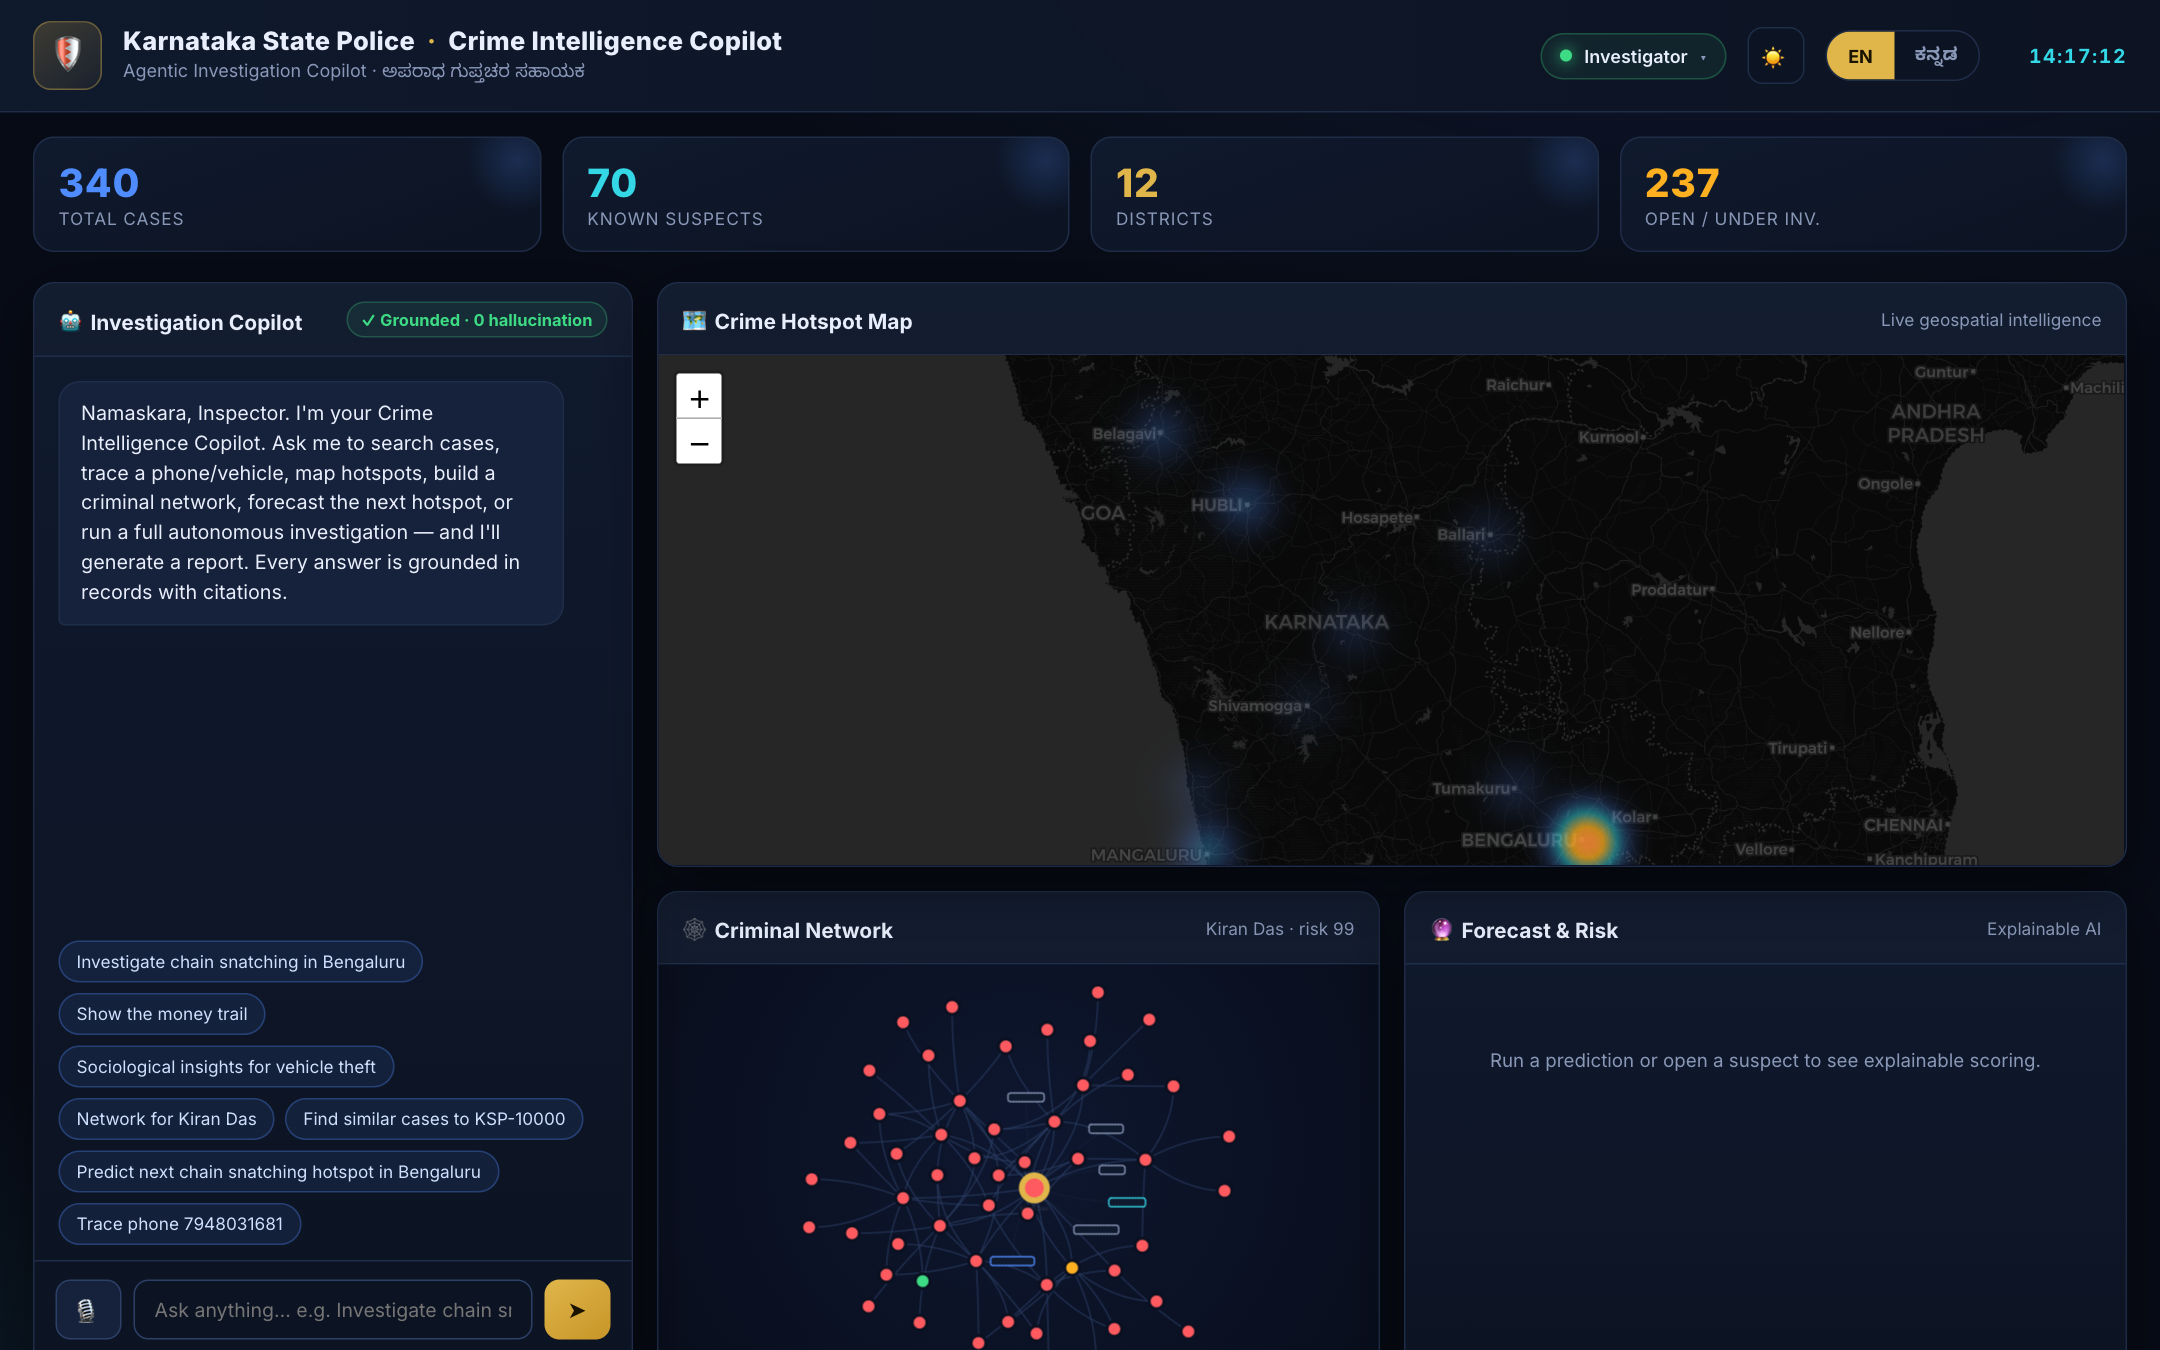
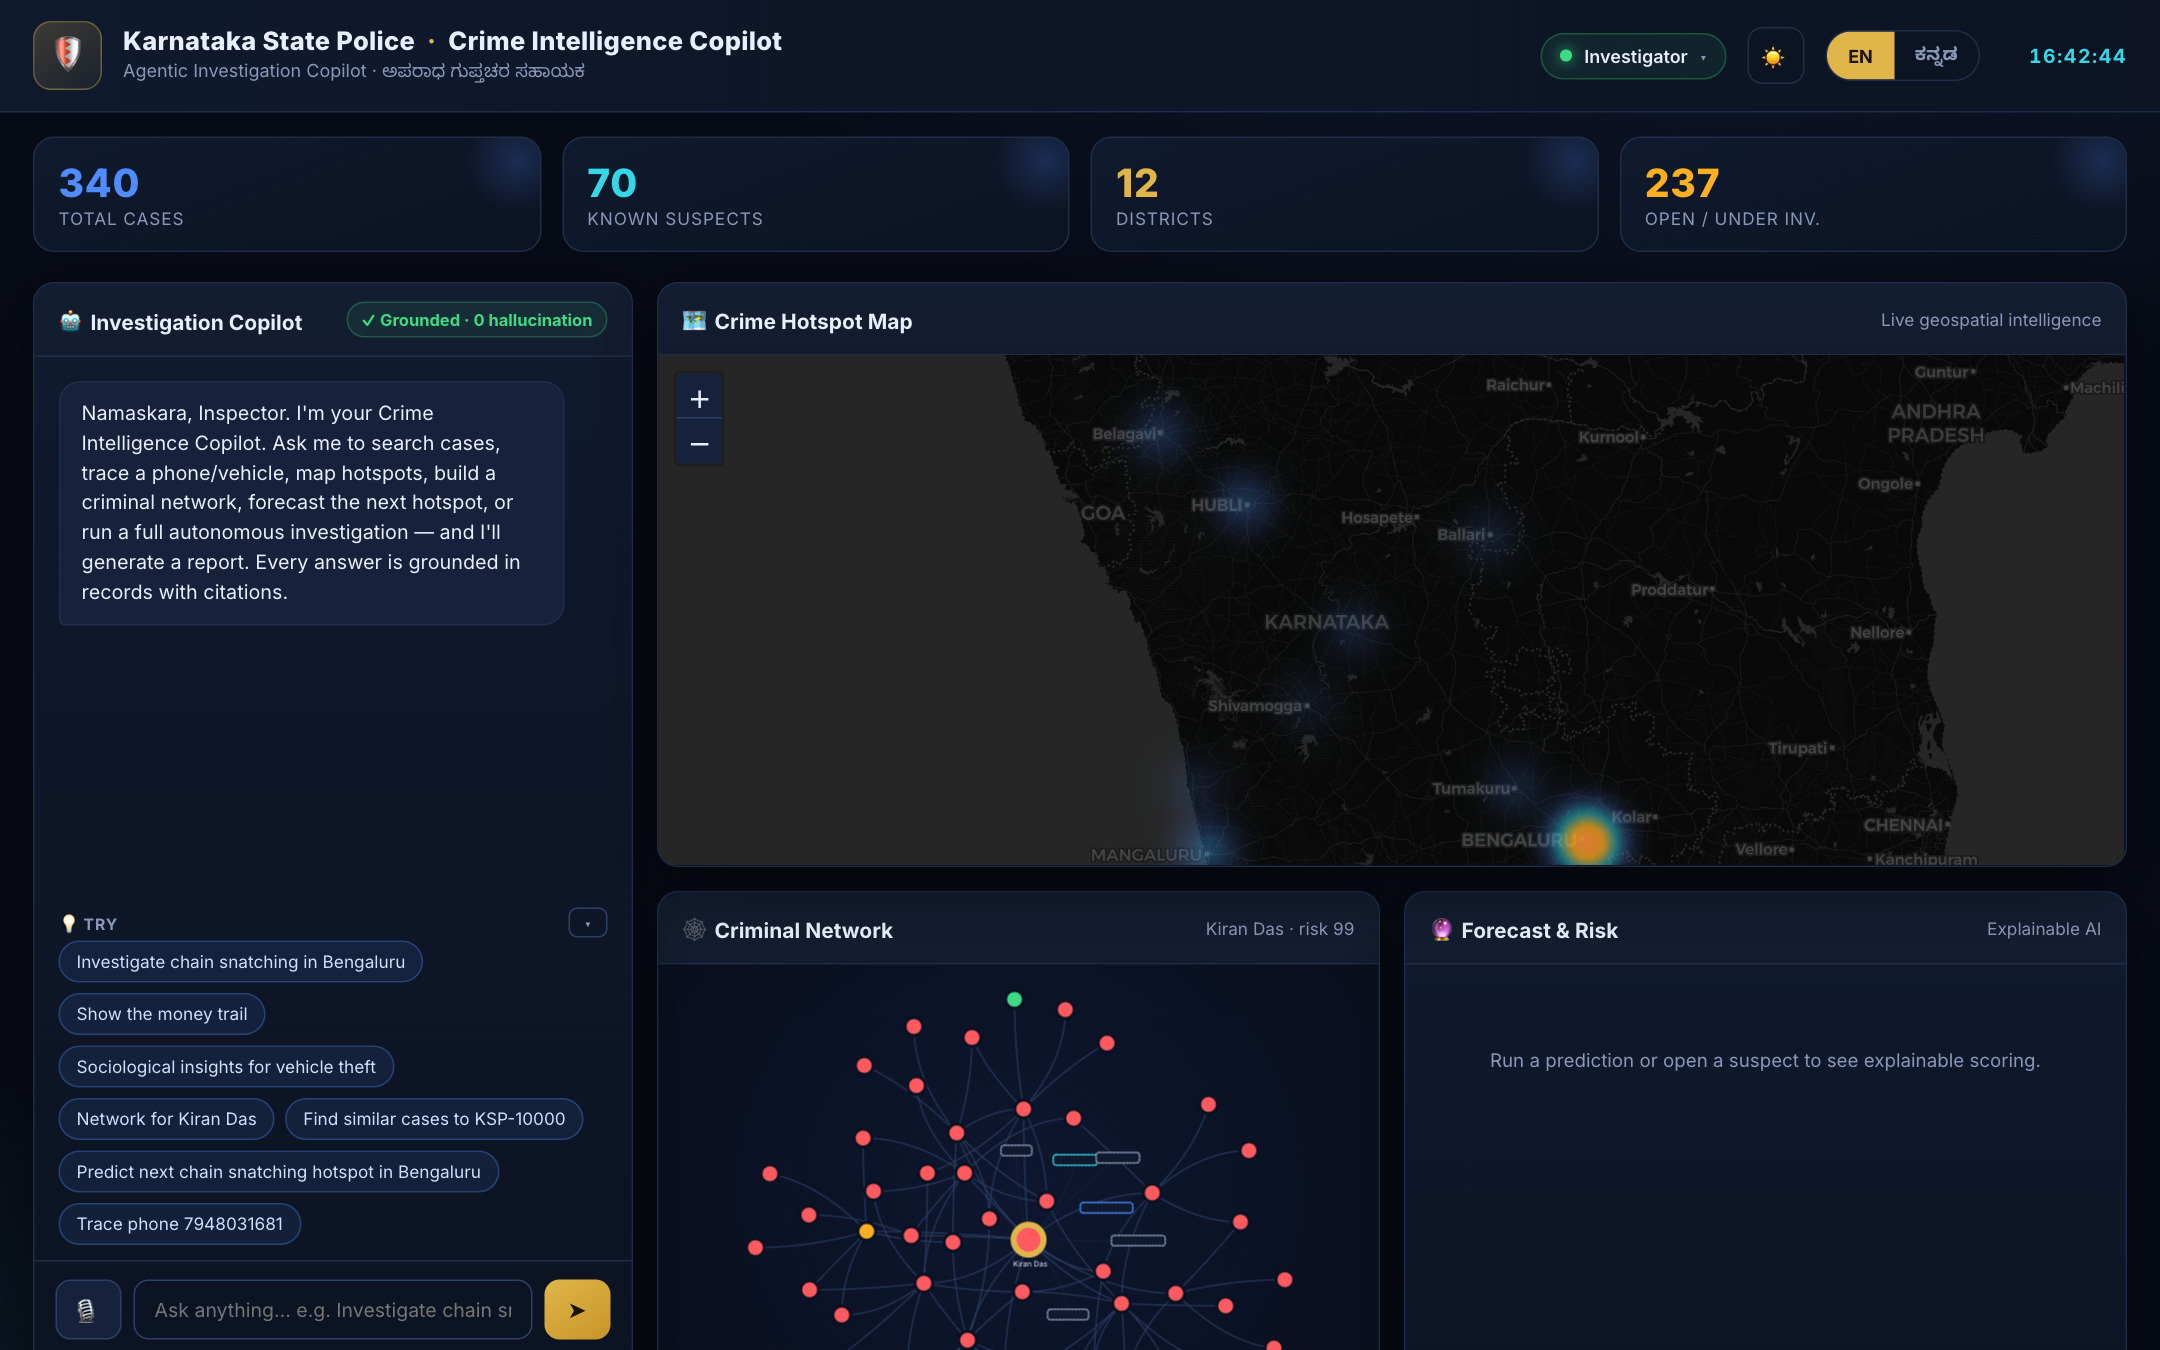
v-1.0.2

diff --git a/app.js b/app.js
@@ -18,6 +18,9 @@
   const themeMuted = () => getComputedStyle(document.documentElement).getPropertyValue("--muted").trim() || "#8a98b8";
   const trackCol = () => (THEME === "light" ? "#e3eaf4" : "#16223b");
   const gridCol = () => (THEME === "light" ? "#e0e7f1" : "#1f2d49");
+  const heatGradient = () => (THEME === "light"
+    ? { 0.2: "#5b3df5", 0.5: "#2f6fe0", 0.75: "#ff8a00", 1: "#e23a40" }
+    : { 0.2: "#4f8cff", 0.5: "#34d7e6", 0.75: "#ffb020", 1: "#ff5a5f" });
 
   // Pillar #10 — role-based access & governance.
   const ROLES = {
@@ -37,7 +40,7 @@
       grounded: "Grounded · 0 hallucination", map: "🗺 Crime Hotspot Map",
       mapSub: "Live geospatial intelligence", network: "🕸 Criminal Network",
       netSub: "Click a node to expand", forecast: "🔮 Forecast & Risk", xai: "Explainable AI",
-      socio: "🏙 Sociological Insights", socioSub: "Criminology · socio-economic correlation",
+      socio: "🏙 Sociological Insights", socioSub: "Criminology · socio-economic correlation", trylabel: "💡 Try",
       timeline: "📈 Investigation Timeline", evidence: "📁 Evidence & Report",
       genreport: "Generate PDF Report", audit: "Audit log",
       synthetic: "Synthetic demo data — no real persons or cases",
@@ -56,7 +59,7 @@
       grounded: "ದೃಢೀಕೃತ · ಶೂನ್ಯ ತಪ್ಪು", map: "🗺 ಅಪರಾಧ ತಾಣ ನಕ್ಷೆ",
       mapSub: "ನೇರ ಭೌಗೋಳಿಕ ಗುಪ್ತಚರ", network: "🕸 ಅಪರಾಧಿ ಜಾಲ",
       netSub: "ವಿಸ್ತರಿಸಲು ನೋಡ್ ಕ್ಲಿಕ್ ಮಾಡಿ", forecast: "🔮 ಊಹೆ ಮತ್ತು ಅಪಾಯ", xai: "ವಿವರಿಸಬಲ್ಲ AI",
-      socio: "🏙 ಸಾಮಾಜಿಕ ಒಳನೋಟ", socioSub: "ಅಪರಾಧಶಾಸ್ತ್ರ · ಸಾಮಾಜಿಕ-ಆರ್ಥಿಕ ಸಂಬಂಧ",
+      socio: "🏙 ಸಾಮಾಜಿಕ ಒಳನೋಟ", socioSub: "ಅಪರಾಧಶಾಸ್ತ್ರ · ಸಾಮಾಜಿಕ-ಆರ್ಥಿಕ ಸಂಬಂಧ", trylabel: "💡 ಪ್ರಯತ್ನಿಸಿ",
       timeline: "📈 ತನಿಖಾ ಕಾಲರೇಖೆ", evidence: "📁 ಸಾಕ್ಷ್ಯ ಮತ್ತು ವರದಿ",
       genreport: "PDF ವರದಿ ರಚಿಸಿ", audit: "ಲೆಕ್ಕಪರಿಶೋಧನೆ",
       synthetic: "ಕೃತಕ ಡೆಮೋ ಮಾಹಿತಿ — ನಿಜವಾದ ವ್ಯಕ್ತಿಗಳಲ್ಲ",
@@ -235,9 +238,13 @@
     injectPredCss();
   }
   function swapMapTiles() {
-    // Map stays DARK in both themes — best contrast for heat + markers.
-    if (!mapObj || typeof L === "undefined" || tileLayer) return;
-    tileLayer = L.tileLayer("https://{s}.basemaps.cartocdn.com/dark_all/{z}/{x}/{y}{r}.png", { maxZoom: 19, subdomains: "abcd" }).addTo(mapObj);
+    // Theme-aware basemap: light tiles in light mode, dark tiles in dark mode.
+    if (!mapObj || typeof L === "undefined") return;
+    if (tileLayer) mapObj.removeLayer(tileLayer);
+    const url = THEME === "light"
+      ? "https://{s}.basemaps.cartocdn.com/light_all/{z}/{x}/{y}{r}.png"
+      : "https://{s}.basemaps.cartocdn.com/dark_all/{z}/{x}/{y}{r}.png";
+    tileLayer = L.tileLayer(url, { maxZoom: 19, subdomains: "abcd" }).addTo(mapObj);
     if (tileLayer.bringToBack) tileLayer.bringToBack();
   }
   function applyTheme() {
@@ -251,8 +258,7 @@
   function showInitialHeat() {
     if (!mapObj || !L.heatLayer) return;
     const pts = DB.cases.map((c) => [c.lat, c.lng, 0.45]);
-    heatLayer = L.heatLayer(pts, { radius: 18, blur: 22, maxZoom: 12,
-      gradient: { 0.2: "#4f8cff", 0.5: "#34d7e6", 0.75: "#ffb020", 1: "#ff5a5f" } }).addTo(mapObj);
+    heatLayer = L.heatLayer(pts, { radius: 18, blur: 22, maxZoom: 12, gradient: heatGradient() }).addTo(mapObj);
   }
   function applyMap(r) {
     if (!mapObj) return;
@@ -262,15 +268,14 @@
     const cases = r.cases || [];
     if (cases.length && L.heatLayer) {
       heatLayer = L.heatLayer(cases.map((c) => [c.lat, c.lng, 0.35 + c.severity / 14]),
-        { radius: 26, blur: 26, maxZoom: 13,
-          gradient: { 0.2: "#4f8cff", 0.5: "#34d7e6", 0.75: "#ffb020", 1: "#ff5a5f" } }).addTo(mapObj);
+        { radius: 26, blur: 26, maxZoom: 13, gradient: heatGradient() }).addTo(mapObj);
     } else { showInitialHeat(); }
 
-    (r.hotspots || []).forEach((h) => {
-      const radius = 9 + Math.min(h.count, 20);
-      L.circleMarker([h.lat, h.lng], {
-        radius, color: "#e0b64a", weight: 2, fillColor: "#ffb020", fillOpacity: 0.35
-      }).bindPopup(`<b>${h.area}</b>, ${h.district}<br>${h.count} case(s) · ${h.share}% of results`).addTo(markerGroup);
+    (r.hotspots || []).forEach((h, i) => {
+      const icon = L.divIcon({ className: "",
+        html: `<div class="hot-marker ${i === 0 ? "hot-top" : ""}"><span class="hot-dot"></span><span class="hot-pill">${h.area}<b>${h.count}</b></span></div>`,
+        iconSize: [16, 16], iconAnchor: [8, 8] });
+      L.marker([h.lat, h.lng], { icon, riseOnHover: true }).bindPopup(hotspotPopup(h)).addTo(markerGroup);
     });
 
     if (r.prediction) {
@@ -289,6 +294,18 @@
     const s = el("style"); s.id = "predcss";
     s.textContent = ".pred-pulse{font-size:22px;filter:drop-shadow(0 0 6px #ff5a5f);animation:predpulse 1.2s infinite}@keyframes predpulse{0%,100%{transform:scale(1)}50%{transform:scale(1.35)}}";
     document.head.appendChild(s);
+  }
+  function hotspotPopup(h) {
+    const cs = (h.ids || []).map((id) => DB.caseById(id)).filter(Boolean);
+    const tc = {}; cs.forEach((c) => (tc[c.type] = (tc[c.type] || 0) + 1));
+    const topType = Object.keys(tc).sort((a, b) => tc[b] - tc[a])[0] || "—";
+    const recent = cs.slice().sort((a, b) => b.ts - a.ts)[0];
+    return `<div class="pop"><div class="pop-h">📍 ${h.area}, ${h.district}</div>` +
+      `<div class="pop-row"><span>Cases</span><b>${h.count}</b></div>` +
+      `<div class="pop-row"><span>Share of results</span><b>${h.share}%</b></div>` +
+      `<div class="pop-row"><span>Top crime</span><b>${topType}</b></div>` +
+      (recent ? `<div class="pop-row"><span>Latest</span><b>${recent.type} · ${recent.date}</b></div><div class="pop-id">${recent.id}</div>` : "") +
+      `</div>`;
   }
 
   /* ---- Network ---- */
@@ -333,7 +350,7 @@
     });
     const data = { nodes: new vis.DataSet(nodes), edges: new vis.DataSet(edges) };
     const options = {
-      physics: { stabilization: { iterations: 120 }, barnesHut: { gravitationalConstant: -9000, springLength: 110, springConstant: 0.04 } },
+      physics: { stabilization: { iterations: 150, fit: true }, barnesHut: { gravitationalConstant: -9000, springLength: 110, springConstant: 0.04 } },
       interaction: { hover: true, tooltipDelay: 120 }, layout: { improvedLayout: true }
     };
     if (netObj) netObj.destroy();
@@ -604,6 +621,10 @@
     $("#sendBtn").onclick = () => ask();
     $("#queryInput").addEventListener("keydown", (e) => { if (e.key === "Enter") ask(); });
     $("#micBtn").onclick = toggleListen;
+    $("#suggToggle").onclick = () => {
+      const collapsed = $("#suggestions").classList.toggle("collapsed");
+      $("#suggToggle").textContent = collapsed ? "▸" : "▾";
+    };
     $("#themeToggle").onclick = () => { THEME = THEME === "light" ? "dark" : "light"; applyTheme(); audit("theme.switch", THEME); };
     $("#roleBadge").onclick = () => {
       const keys = Object.keys(ROLES);

diff --git a/styles.css b/styles.css
@@ -31,7 +31,7 @@
   --bg: #e9eff7; --bg-2: #ffffff; --panel: #ffffff; --panel-hi: #eef3fa;
   --border: #dbe3ef; --border-hi: #c4d0e3; --text: #15233b; --muted: #5a6a85;
   --gold: #b07d16; --cyan: #0d92a6; --blue: #2f6fe0; --green: #1f9d57; --amber: #c9810a; --red: #e23a40;
-  --map-bg: #0a1020; --net-bg1: #f4f8fd; --net-bg2: #e8eff8; --head-tint: rgba(20,40,80,.025);
+  --map-bg: #dfeaf7; --net-bg1: #f4f8fd; --net-bg2: #e8eff8; --head-tint: rgba(20,40,80,.025);
   --chip-text: #1f54b8;
   --shadow: 0 10px 30px rgba(20,40,80,.12);
 }
@@ -70,7 +70,7 @@ body {
   background: linear-gradient(90deg, rgba(16,26,46,.95), rgba(12,19,34,.95));
   border-bottom: 1px solid var(--border);
   backdrop-filter: blur(8px);
-  position: sticky; top: 0; z-index: 50;
+  position: sticky; top: 0; z-index: 1200;   /* above Leaflet panes/controls (1000) */
 }
 .brand { display: flex; align-items: center; gap: 14px; }
 .shield {
@@ -139,7 +139,7 @@ body {
 /* ------------------------------ Copilot --------------------------------- */
 .copilot { display: flex; flex-direction: column; height: calc(100vh - 168px); position: sticky; top: 150px; }
 .grounded-badge { font-size: 11px; font-weight: 700; color: var(--green); background: rgba(63,221,132,.08); border: 1px solid rgba(63,221,132,.25); padding: 4px 9px; border-radius: 999px; }
-.chat { flex: 1; overflow-y: auto; padding: 16px; display: flex; flex-direction: column; gap: 12px; }
+.chat { flex: 1; min-height: 0; overflow-y: auto; overscroll-behavior: contain; padding: 16px; display: flex; flex-direction: column; gap: 12px; }
 .msg { max-width: 92%; padding: 11px 14px; border-radius: 14px; line-height: 1.5; font-size: 13.2px; animation: rise .25s ease; }
 @keyframes rise { from { opacity: 0; transform: translateY(8px); } }
 .msg.user { align-self: flex-end; background: linear-gradient(145deg, var(--blue), #3a6fd8); color: #fff; border-bottom-right-radius: 4px; }
@@ -183,8 +183,36 @@ body {
 .leaflet-container { background: var(--map-bg); font-family: inherit; }
 .leaflet-popup-content-wrapper { background: var(--panel-hi); color: var(--text); border-radius: 10px; border: 1px solid var(--border-hi); }
 .leaflet-popup-tip { background: var(--panel-hi); }
+.leaflet-popup-content { color: var(--text); margin: 12px 14px; }
 .leaflet-popup-content b { color: var(--gold); }
-#network { height: 300px; width: 100%; background: radial-gradient(circle at 50% 40%, var(--net-bg1), var(--net-bg2)); }
+.leaflet-control-zoom a { background: var(--panel-hi) !important; color: var(--text) !important; border-color: var(--border-hi) !important; }
+
+/* Advanced hotspot markers (area label + glowing dot) */
+.hot-marker { display: flex; align-items: center; gap: 6px; white-space: nowrap; }
+.hot-dot { width: 13px; height: 13px; border-radius: 50%; flex: 0 0 auto;
+  background: radial-gradient(circle at 30% 30%, #ffe08a, #ff8a00);
+  box-shadow: 0 0 12px 3px rgba(255,138,0,.55); border: 2px solid rgba(255,255,255,.35); }
+.hot-pill { font-size: 11px; font-weight: 700; color: #fff; background: rgba(8,13,26,.82);
+  border: 1px solid rgba(224,182,74,.55); padding: 2px 8px; border-radius: 999px;
+  box-shadow: 0 2px 8px rgba(0,0,0,.4); }
+.hot-pill b { color: #ffd36b; margin-left: 4px; }
+.hot-top .hot-dot { width: 18px; height: 18px;
+  background: radial-gradient(circle at 30% 30%, #ffb0b0, #ff3b3b);
+  box-shadow: 0 0 18px 6px rgba(255,59,59,.6); animation: hotpulse 1.6s infinite; }
+.hot-top .hot-pill { border-color: rgba(255,90,95,.7); }
+@keyframes hotpulse { 50% { transform: scale(1.18); } }
+.pop-h { font-weight: 800; color: var(--gold); margin-bottom: 6px; font-size: 13px; }
+.pop-row { display: flex; justify-content: space-between; gap: 18px; font-size: 11.5px; padding: 1px 0; }
+.pop-row span { color: var(--muted); }
+.pop-id { margin-top: 5px; font-size: 10.5px; color: var(--cyan); font-weight: 700; }
+
+/* Suggestions open/close toggle */
+.sugg-head { display: flex; align-items: center; justify-content: space-between; padding: 8px 16px 2px; }
+.sugg-head span { font-size: 10.5px; color: var(--muted); font-weight: 700; text-transform: uppercase; letter-spacing: .6px; }
+.sugg-toggle { background: transparent; border: 1px solid var(--border-hi); color: var(--muted); width: 26px; height: 20px; border-radius: 6px; cursor: pointer; font-size: 11px; line-height: 1; font-family: inherit; transition: .15s; }
+.sugg-toggle:hover { border-color: var(--blue); color: var(--blue); }
+.suggestions.collapsed { display: none; }
+#network { height: 380px; width: 100%; background: radial-gradient(circle at 50% 40%, var(--net-bg1), var(--net-bg2)); }
 
 /* ----------------------------- Forecast --------------------------------- */
 .forecast-body { padding: 14px 16px; min-height: 300px; }

diff --git a/index.html b/index.html
@@ -55,6 +55,10 @@
 
         <div class="chat" id="chat"></div>
 
+        <div class="sugg-head">
+          <span data-i18n="trylabel">💡 Try</span>
+          <button class="sugg-toggle" id="suggToggle" title="Show / hide suggestions">▾</button>
+        </div>
         <div class="suggestions" id="suggestions"></div>
 
         <div class="composer">
